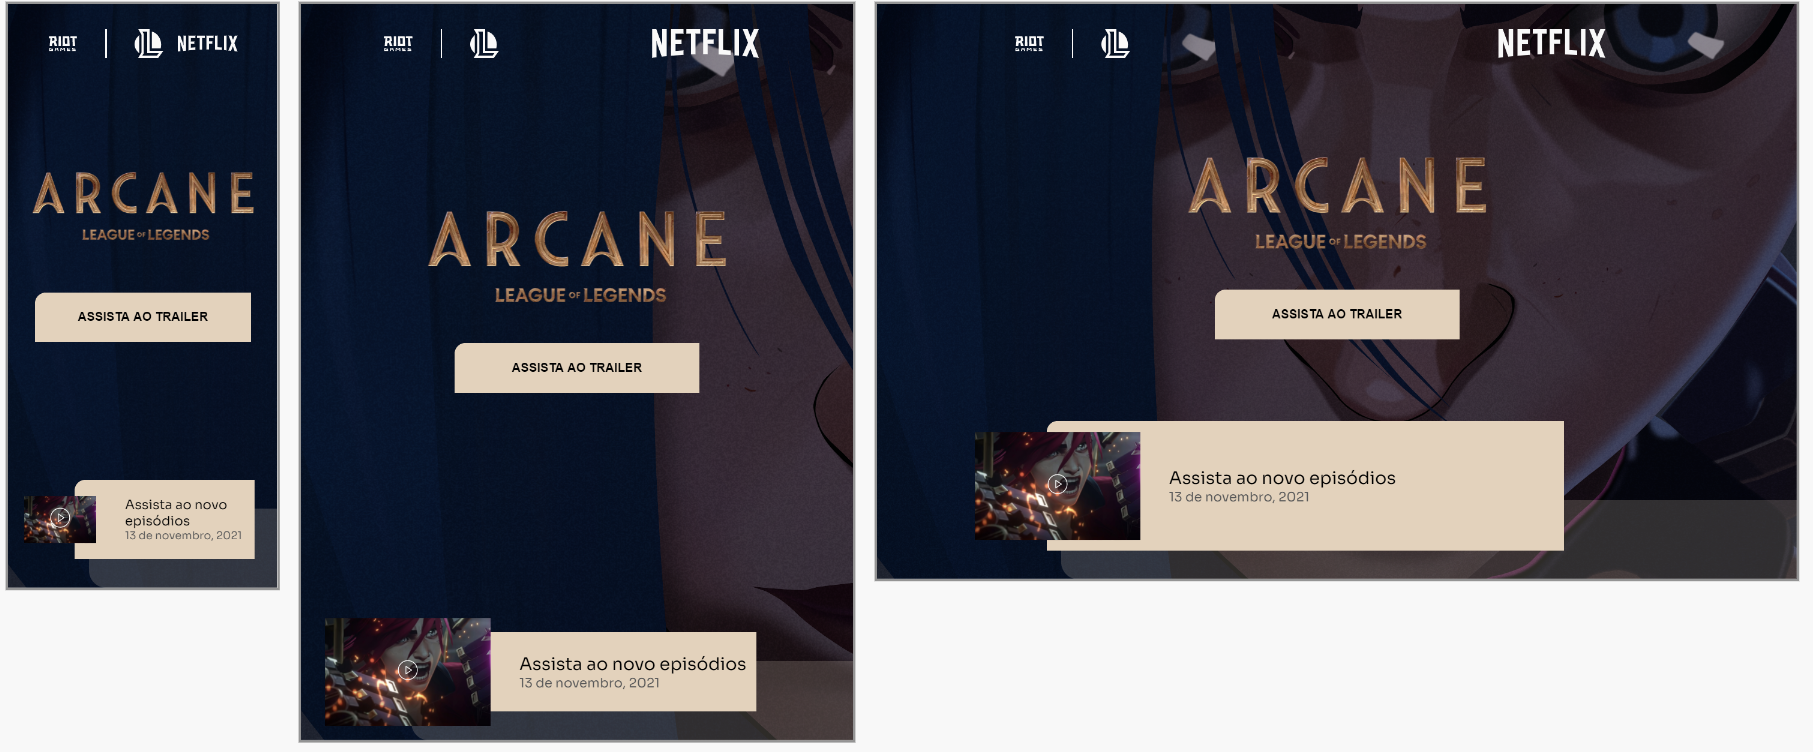
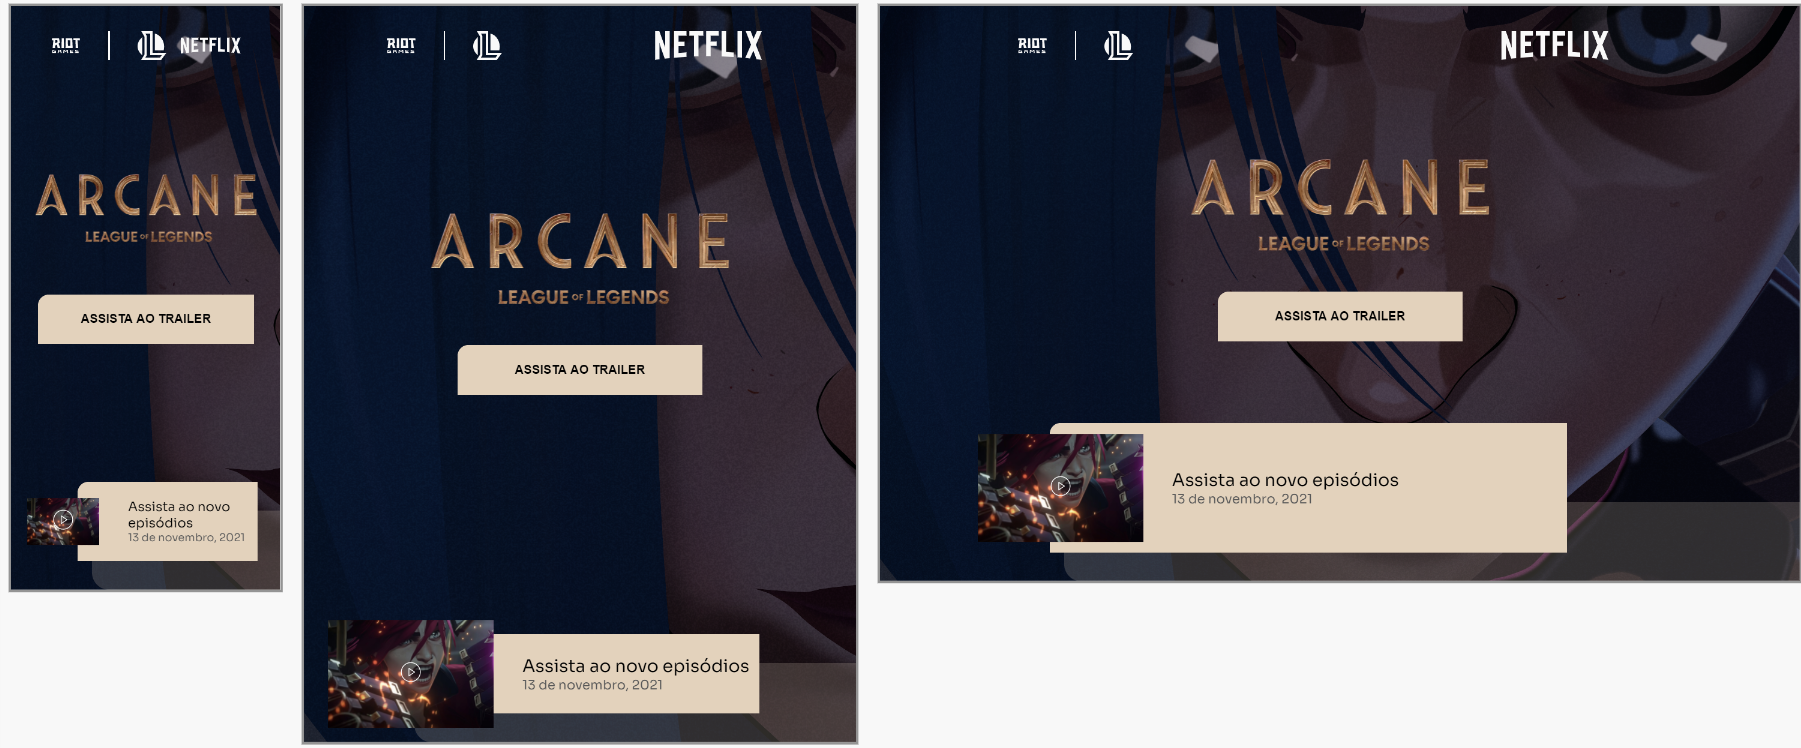
Change Background Position

Changed region(s): [[0.0, 0.0, 1.0, 1.0], [0.3731, 0.4612, 0.4042, 0.5227]]

diff --git a/styles/globals.css b/styles/globals.css
@@ -89,3 +89,12 @@ div#__next>div {
   --gray-color: #585858;
   --dark-color: #161616;
 }
+
+
+@media(max-width:640px) {
+  body {
+    background-position-x: -200px;
+
+    background-size: cover;
+  }
+}
